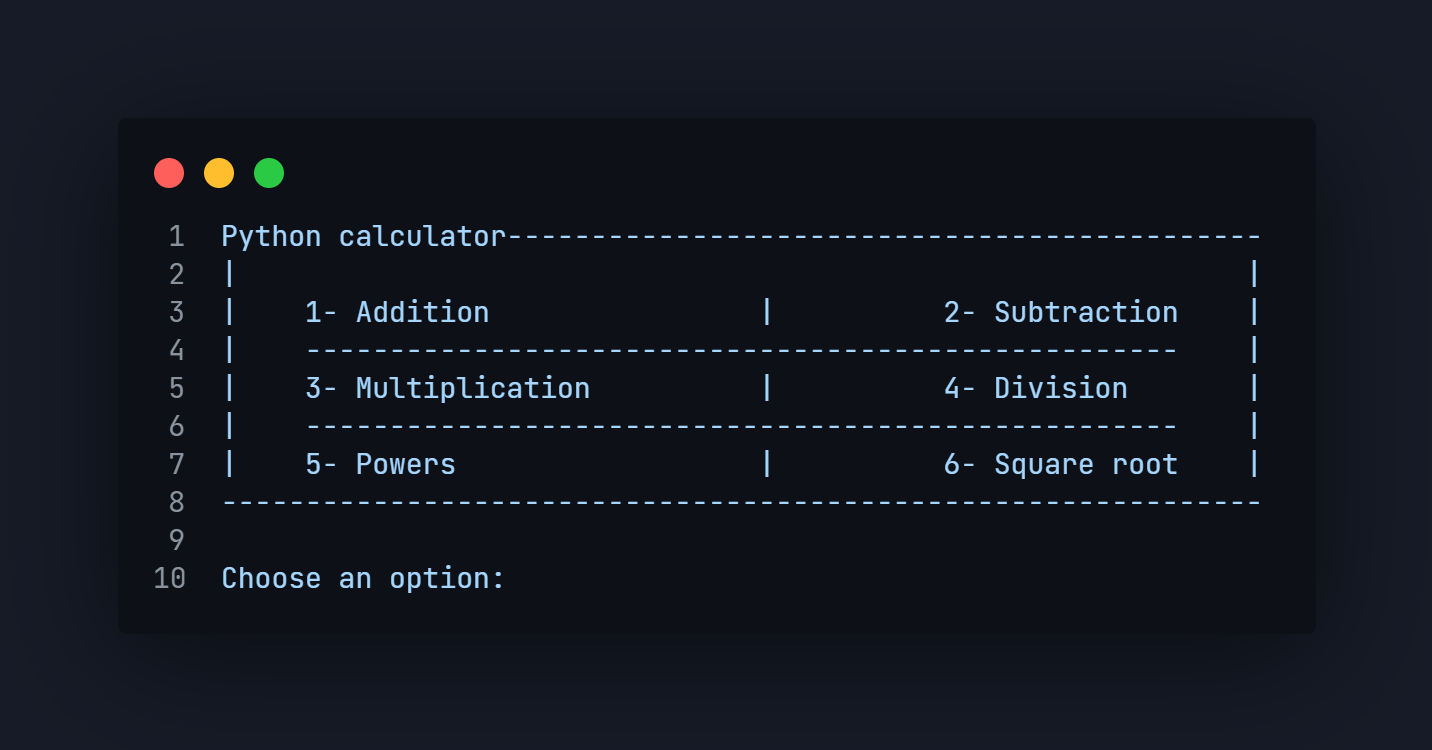
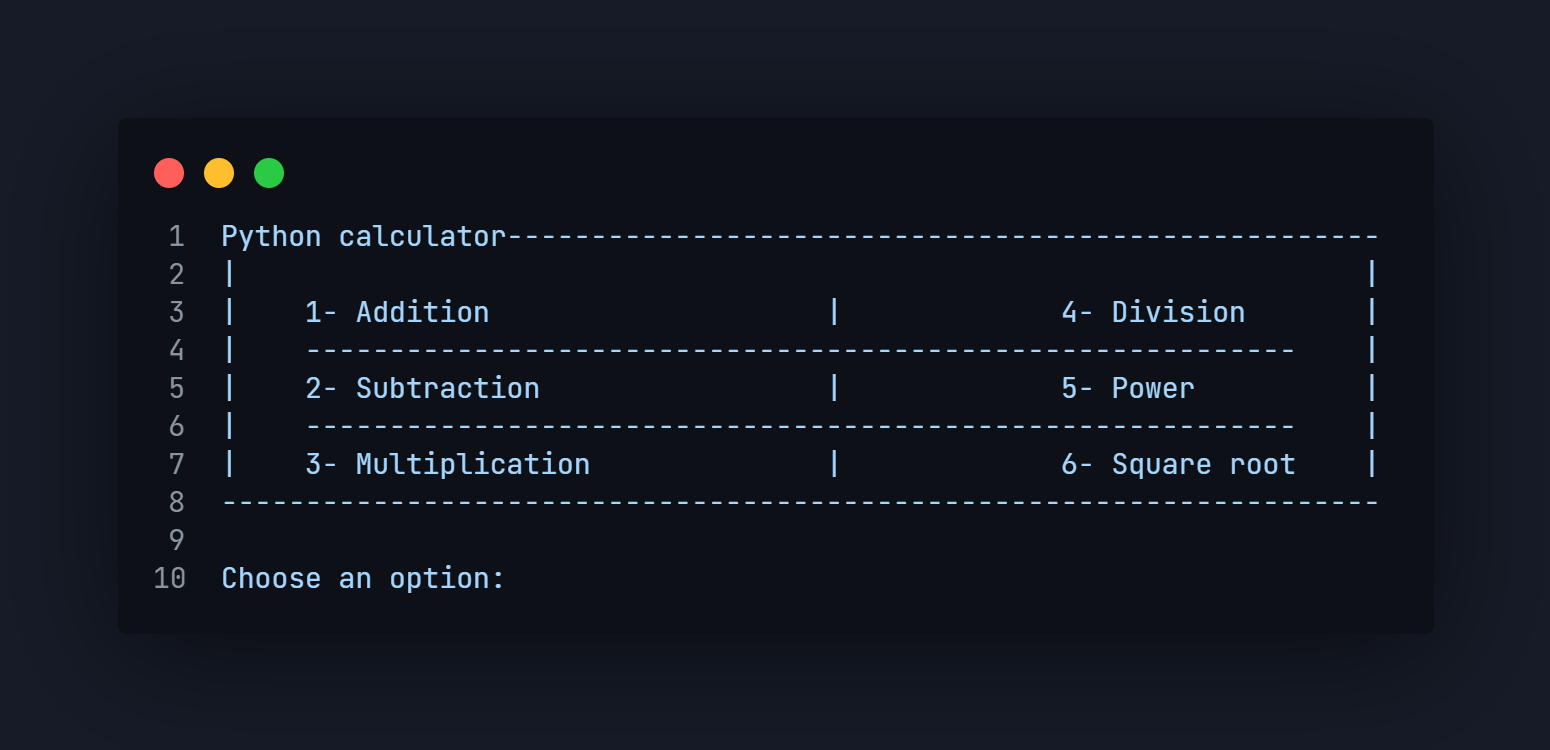
Changes 03/01/22 - 4:08 p.m

diff --git a/calc.py b/calc.py
@@ -3,14 +3,14 @@ import math
 
 def main():
     menu = """
-Python calculator---------------------------------------------
-|                                                            |
-|    1- Addition                |          2- Subtraction    |
-|    ----------------------------------------------------    |
-|    3- Multiplication          |          4- Division       |
-|    ----------------------------------------------------    |
-|    5- Powers                  |          6- Square root    |
---------------------------------------------------------------
+Python calculator----------------------------------------------------
+|                                                                   |
+|    1- Addition                    |             4- Division       |
+|    -----------------------------------------------------------    |
+|    2- Subtraction                 |             5- Power          |
+|    -----------------------------------------------------------    |
+|    3- Multiplication              |             6- Square root    |
+---------------------------------------------------------------------
 
 Choose an option: """
 
@@ -32,12 +32,14 @@ Choose an option: """
                 elif option == 4:
                     print(f'{message} {first_num % second_num}')
 
-            if option > 5 and option < 7:
+            if option > 4 and option < 7:
                 if option == 5:
-                    pass
+                    main_num = int(input('Enter a base to get the power: '))
+                    power = int(input('Exponent to get power: '))
+                    print(f'{message} {main_num**power}')
 
-                if option == 6:
-                    sqr_num = int(input('Enter a number to get root: '))
+                elif option == 6:
+                    sqr_num = int(input('Enter a number to get square root: '))
                     print(f'{message} {math.sqrt(sqr_num)}')
 
             else:

diff --git a/README.md b/README.md
@@ -1,0 +1,60 @@
+# Python calculator
+
+<img src="calc-menu.png" alt="readme-main-img">
+
+<br>
+
+---
+
+<br>
+
+## Usage
+<br>
+
+### Clone reposotory
+
+#### Use SSH key:
+```
+git clone git@github.com:itsarreguin/calc.py.git
+```
+
+#### Use HTTPS:
+```
+git clone https://github.com/itsarreguin/calc.py.git
+```
+
+### Run in CLI
+
+#### Access the folder
+```
+cd calc.py
+```
+
+#### Run code
+
+Use the `python` or `py` command in Windows or use `python3` in MacOS and Linux, followed by the filename
+```
+python calc.py
+```
+
+
+### CLI screen
+
+```python
+
+Python calculator----------------------------------------------------
+|                                                                   |
+|    1- Addition                    |             4- Division       |
+|    -----------------------------------------------------------    |
+|    2- Subtraction                 |             5- Power          |
+|    -----------------------------------------------------------    |
+|    3- Multiplication              |             6- Square root    |
+---------------------------------------------------------------------
+
+Choose an option: |
+
+```
+
+Start use this simple calculator.
+
+##### Made with ❤ in Python by <a href="https://twitter.com/itsarreguin" target="_blank">@itsarreguin</a>
